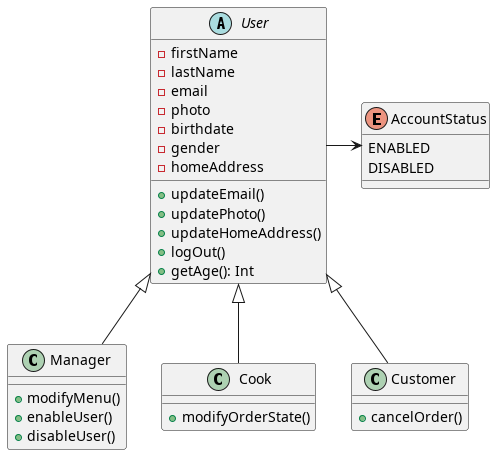
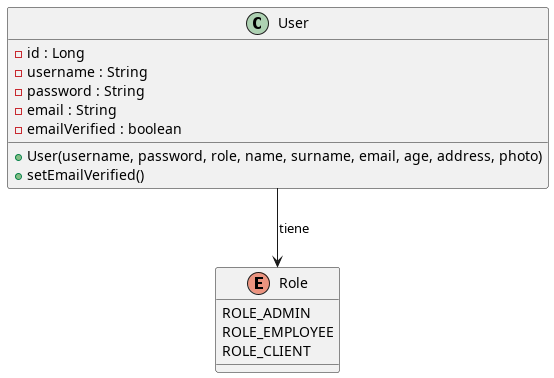
actualizo vista logica
modifico diagramas de clase:
- Ingredient
- User

diff --git a/documentacion/src/tex/vista_logica.tex b/documentacion/src/tex/vista_logica.tex
@@ -1,26 +1,54 @@
 \section{Vista Lógica}
 
-\begin{figure}[htbp]
+\begin{figure}[H]
     \centering
-    \includegraphics[width=0.7\textwidth]{img/diagrama_de_clases_user}
+    \includegraphics[width=0.5\textwidth]{img/diagrama_de_clases_user}
     \caption{Diagrama de Clases: Usuarios}
     \label{fig:dc1}
 \end{figure}
 
-\vfill
-\begin{figure}[htbp]
+La entidad \texttt{User} representa a cualquier persona que utiliza el sistema
+(estudiante/cliente, personal del comedor o encargado). Contiene los datos de
+identidad y autenticación (email, contraseña) y se asocia a un único
+\texttt{Role}, que indica el tipo de usuario y, por lo tanto, los permisos que
+posee. El enum \texttt{Role} distingue entre usuarios administradores
+(\texttt{ROLE\_ADMIN}), empleados del comedor (\texttt{ROLE\_EMPLOYEE}) y
+clientes finales (\texttt{ROLE\_CLIENT}). A partir de este rol, la capa de
+seguridad aplica las políticas de autorización para acceder a los distintos
+casos de uso del sistema.
+
+
+\begin{figure}[H]
     \centering
-    \includegraphics[width=1\textwidth]{img/Diagrama-de-estados-flujo-cliente}
-    \caption{Diagrama de Estados: Flujo de un Cliente}
-    \label{fig:de1}
+    \includegraphics[width=0.7\textwidth]{img/diagrama_de_clases_user_sessions}
+    \caption{Diagrama de Clases: Autenticacion de usuarios}
+    \label{fig:dc1_auth}
 \end{figure}
-\vfill
+
+El subsistema de autenticación se organiza alrededor de \texttt{UserService},
+que concentra la lógica de inicio de sesión y refresco de tokens. El
+\texttt{SessionRestController} expone los endpoints HTTP de \texttt{login} y
+\texttt{refresh} y delega el trabajo en dicho servicio. A partir de las
+credenciales recibidas, \texttt{UserService} valida al \texttt{User}, genera
+un token de acceso JWT mediante \texttt{JwtService} y un token de refresco
+persistido como \texttt{RefreshToken} a través de \texttt{RefreshTokenService},
+devolviendo ambos en un \texttt{TokenDTO}. De esta forma, el cliente puede
+autenticarse usando JWT y renovar su sesión sin reenviar la contraseña.
 
 \begin{figure}[htbp]
     \centering
     \includegraphics[width=1\textwidth]{img/Diagrama-de-estados-auth}
     \caption{Diagrama de Estados: Autenticacion de un Cliente}
     \label{fig:de2}
+\end{figure}
+
+\vfill
+
+\begin{figure}[htbp]
+    \centering
+    \includegraphics[width=1\textwidth]{img/Diagrama-de-estados-flujo-cliente}
+    \caption{Diagrama de Estados: Flujo de un Cliente}
+    \label{fig:de1}
 \end{figure}
 
 \vfill
@@ -32,19 +60,31 @@
 \end{figure}
 \vfill
 
-\begin{figure}[htbp]
+\begin{figure}[H]
     \centering
     \includegraphics[width=0.7\textwidth]{img/Diagrama-de-estados-productos}
     \caption{Diagrama de Estados: Productos}
     \label{fig:de3}
 \end{figure}
 
-\begin{figure}[htbp]
+El siguiente diagrama modela la lógica de stock y precios del sistema. La interfaz
+\texttt{Stockable} abstrae a cualquier elemento cuya disponibilidad pueda consultarse,
+mientras que \texttt{Priceable} representa a los elementos que tienen un precio asociado.
+\texttt{OrderItem} es una clase abstracta que unifica el comportamiento de los ítems que
+pueden formar parte de un pedido (productos y combos), exponiendo operaciones para conocer
+su precio, verificar disponibilidad y obtener los ingredientes que consumen. Los
+\texttt{Product} se componen de uno o más \texttt{Ingredient}, que son quienes mantienen
+el stock físico (\texttt{quantity}), y los \texttt{Combo} se componen de varios
+\texttt{Product}. De esta forma, la disponibilidad de productos y combos se calcula siempre
+en función del stock real de los ingredientes.
+
+\begin{figure}[H]
     \centering
     \includegraphics[width=0.4\textwidth]{img/diagrama_de_clases_stock}
     \caption{Diagrama de Clases: Stock}
     \label{fig:dc3}
 \end{figure}
+
 
 \begin{figure}[htbp]
     \centering